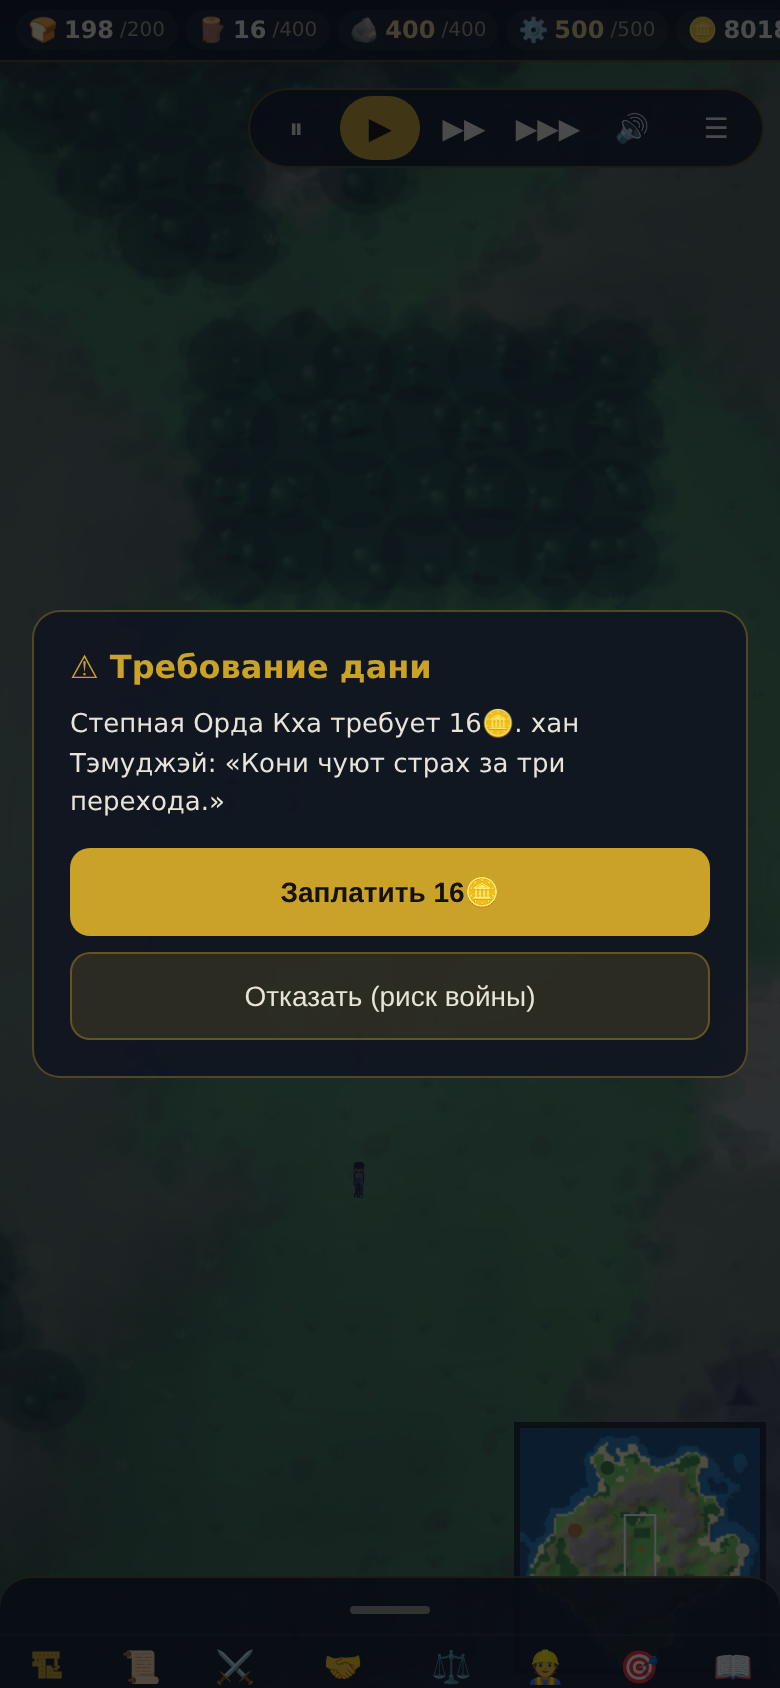
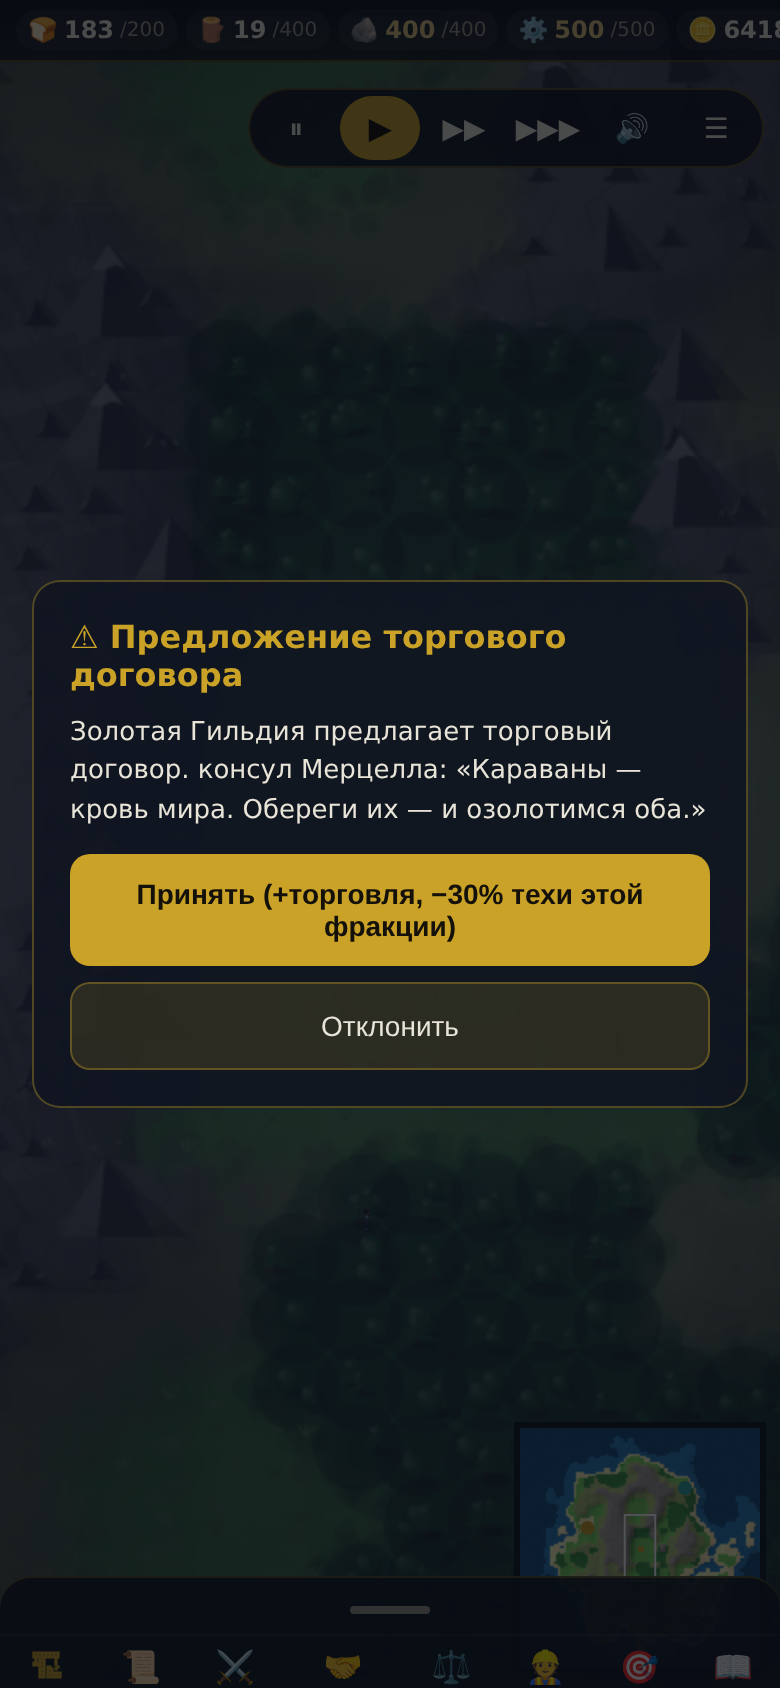
Масштаб зданий, рост жителей, пресет ultra, мини-карта
МАСШТАБ ЗДАНИЙ — настоящая причина «игрушечного города». Аудит списал это
на завышенный рост жителя, но замер показал другое: HFACT в sprites.js был
КОНСТАНТОЙ 1.55 — небоскрёб, храм и землянка рисовались одной высоты.
Человек рядом с четырёхэтажкой поэтому и выглядел великаном, а рядом
с хижиной пропорция была верной.

Введена таблица ARCH_H: высота в долях тайла для каждого архетипа, от
поля (0.30) и костра (0.45) до небоскрёба (3.20) и Шпиля (4.20). Числа
от реального роста при масштабе 1 тайл ≈ 8 м, с потолком: настоящий
небоскрёб в масштабе закрыл бы полэкрана.

Рост жителя 0.60 → 0.34 тайла. Строго по метру вышло бы 0.22, но тогда
на обычном зуме фигура — шесть пикселей и силуэт не читается; читаемость
юнита важнее метрической точности.

ULTRA больше не выдаётся автоматически: замер 26.3 FPS (33.6 мс на кадр),
а порог 8 ГБ / 8 ядер проходит почти любой десктоп — половина игроков
получала тормоги по умолчанию. Пресет остался для ручного выбора.

МИНИ-КАРТА стояла вплотную к краю окна и целиком уходила под боковую
панель: выпекалась каждый кадр и выбрасывалась. Сдвинута на ширину
панели, порог совпадает с媒 CSS-брейкпоинтом 820px.

395 проверок, 0 падений. Консоль чистая, 61 FPS.

Claude-Session: https://claude.ai/code/session_01A6YrcifM54qxcWsSEjEaM2

diff --git a/app/src/render/sprites.js b/app/src/render/sprites.js
@@ -29,6 +29,36 @@ const ARCH = {
   woodshed: 'woodpile', stoneyard: 'stonepile', depot: 'warehouse',
 };
 
+// Высота постройки в долях ширины тайла. Раньше здесь стояла одна константа
+// 1.55 на всё — и небоскрёб, и хижина выходили одного роста, отчего город
+// читался как набор одинаковых коробок, а житель рядом с четырёхэтажкой
+// выглядел великаном.
+//
+// Числа взяты от реального роста: масштаб карты 1 тайл ≈ 8 м (docs/art-direction.md §7),
+// значит землянка в 3 м — это 0.38 тайла, а башня в 90 м упирается в потолок,
+// который мы себе позволяем. Потолок нужен: настоящий небоскрёб в масштабе
+// закрыл бы полэкрана и спрятал под собой карту.
+const ARCH_H = {
+  // земля и ямы — почти без вертикали
+  field: 0.30, quarry: 0.42, mineshaft: 0.70, sewers: 0.34, pad: 0.40, solar: 0.34,
+  // очаги и навесы
+  campfire: 0.45, storyfire: 0.85, lean: 0.60, tent: 0.75, woodpile: 0.62, stonepile: 0.70,
+  // жильё и мастерские каменного и бронзового века
+  hut: 0.90, house: 1.15, shed: 0.95, stalls: 0.80, forge: 1.10, dock: 0.95,
+  // общественные постройки античности
+  columned: 1.70, amphi: 1.15, arches: 1.25, silo: 1.35, mill: 1.65, dome: 1.55,
+  // укрепления
+  wall: 1.00, barracks: 1.20, keep: 2.10, vault: 1.30,
+  // промышленность
+  factory: 1.70, warehouse: 1.10, shipyard: 1.25, lab: 1.40, reactor: 1.90, flat: 0.90,
+  airport: 1.30,
+  // современность и будущее — единственное, чему положено возвышаться
+  highrise: 3.20, tower: 3.60, aicore: 2.40, spire: 4.20,
+};
+const ARCH_H_DEFAULT = 1.15;
+
+export function archHeight(arch) { return ARCH_H[arch] ?? ARCH_H_DEFAULT; }
+
 export class SpriteCache {
   constructor(quality) {
     this.q = quality;
@@ -52,7 +82,9 @@ const BASE = [56, 96, 132];
 
 function bake(id, def, era, sizeTiles, detail) {
   const W = BASE[detail] * sizeTiles;
-  const HFACT = 1.55;                 // запас вверх под крыши, башни и трубы
+  // Высота своя у каждого архетипа (см. ARCH_H). Небольшой запас сверху нужен
+  // под конёк, трубу и мачту — иначе они срезаются рамкой холста.
+  const HFACT = archHeight(ARCH[id] || 'house') * 1.12;
   const H = Math.round(W * HFACT);
   const cv = document.createElement('canvas');
   cv.width = W; cv.height = H;

diff --git a/frontier.html b/frontier.html
@@ -5328,6 +5328,58 @@ ${s}`, "console");
     stoneyard: "stonepile",
     depot: "warehouse"
   };
+  var ARCH_H = {
+    // земля и ямы — почти без вертикали
+    field: 0.3,
+    quarry: 0.42,
+    mineshaft: 0.7,
+    sewers: 0.34,
+    pad: 0.4,
+    solar: 0.34,
+    // очаги и навесы
+    campfire: 0.45,
+    storyfire: 0.85,
+    lean: 0.6,
+    tent: 0.75,
+    woodpile: 0.62,
+    stonepile: 0.7,
+    // жильё и мастерские каменного и бронзового века
+    hut: 0.9,
+    house: 1.15,
+    shed: 0.95,
+    stalls: 0.8,
+    forge: 1.1,
+    dock: 0.95,
+    // общественные постройки античности
+    columned: 1.7,
+    amphi: 1.15,
+    arches: 1.25,
+    silo: 1.35,
+    mill: 1.65,
+    dome: 1.55,
+    // укрепления
+    wall: 1,
+    barracks: 1.2,
+    keep: 2.1,
+    vault: 1.3,
+    // промышленность
+    factory: 1.7,
+    warehouse: 1.1,
+    shipyard: 1.25,
+    lab: 1.4,
+    reactor: 1.9,
+    flat: 0.9,
+    airport: 1.3,
+    // современность и будущее — единственное, чему положено возвышаться
+    highrise: 3.2,
+    tower: 3.6,
+    aicore: 2.4,
+    spire: 4.2
+  };
+  var ARCH_H_DEFAULT = 1.15;
+  function archHeight(arch) {
+    return ARCH_H[arch] ?? ARCH_H_DEFAULT;
+  }
   var SpriteCache = class {
     constructor(quality) {
       this.q = quality;
@@ -5350,7 +5402,7 @@ ${s}`, "console");
   var BASE = [56, 96, 132];
   function bake(id, def, era, sizeTiles, detail) {
     const W = BASE[detail] * sizeTiles;
-    const HFACT = 1.55;
+    const HFACT = archHeight(ARCH[id] || "house") * 1.12;
     const H = Math.round(W * HFACT);
     const cv = document.createElement("canvas");
     cv.width = W;
@@ -7847,7 +7899,6 @@ ${s}`, "console");
     if (mem <= 2 || cores <= 2) return "eco";
     if (coarse && px > 25e5) return "medium";
     if (coarse) return "medium";
-    if (mem >= 8 && cores >= 8) return "ultra";
     return "high";
   }
 
@@ -8483,7 +8534,7 @@ ${s}`, "console");
         st.sheet = this.people.sheet(era, prof, lookOf(v));
       }
       const sh = st.sheet;
-      const h = Math.max(9, z * 0.6);
+      const h = Math.max(7, z * 0.34);
       const w = h * (sh.fw / sh.fh);
       const frame2 = st.still > 2 ? 0 : (st.walk / 0.62 * 4 | 0) % 4;
       ctx.drawImage(
@@ -8726,7 +8777,8 @@ ${s}`, "console");
     }
     drawMinimap(sim2, ctx, cw, ch) {
       const MW = 120, MH = 120;
-      const mx = cw - MW - 10, my = ch - MH - 10;
+      const panelW = cw > 820 ? 338 : 10;
+      const mx = cw - MW - panelW, my = ch - MH - 10;
       ctx.fillStyle = "rgba(10,14,24,0.75)";
       ctx.fillRect(mx - 3, my - 3, MW + 6, MH + 6);
       if (!this._miniCache || this._miniSeason !== sim2.seasonIdx || this._miniSeed !== sim2.world.seed) {

diff --git a/app/src/render/renderer.js b/app/src/render/renderer.js
@@ -689,8 +689,12 @@ export class Renderer {
       st.sheet = this.people.sheet(era, prof, lookOf(v));
     }
     const sh = st.sheet;
-    // Житель заметно ниже тайла: вровень с хижиной он смотрится великаном.
-    const h = Math.max(9, z * 0.60);
+    // Рост жителя в долях тайла. Масштаб карты — 1 тайл ≈ 8 м, человек 1.8 м,
+    // строго по метру это 0.22 тайла. Берём 0.34: на строгом значении фигура
+    // на обычном зуме выходит в шесть пикселей и силуэт перестаёт читаться,
+    // а читаемость юнита важнее метрической точности. Хижина при этом 0.90,
+    // то есть человек ей примерно по плечо — пропорция уже честная.
+    const h = Math.max(7, z * 0.34);
     const w = h * (sh.fw / sh.fh);
     // цикл шага — 0.62 тайла на два шага
     const frame = st.still > 2 ? 0 : ((st.walk / 0.62 * 4) | 0) % 4;
@@ -912,7 +916,12 @@ export class Renderer {
 
   drawMinimap(sim, ctx, cw, ch) {
     const MW = 120, MH = 120;
-    const mx = cw - MW - 10, my = ch - MH - 10;
+    // Правый край занимает #sidePanel (шириной 330 плюс отступ). Мини-карта
+    // стояла вплотную к краю окна и на десктопе целиком уходила под панель:
+    // рендер выпекал её каждый кадр и выбрасывал. Отступаем на ширину панели,
+    // но только когда та реально показана — на узком экране она скрыта.
+    const panelW = cw > 820 ? 338 : 10;   // 320 ширина панели + 8 отступ справа + 10 зазор
+    const mx = cw - MW - panelW, my = ch - MH - 10;
     ctx.fillStyle = 'rgba(10,14,24,0.75)';
     ctx.fillRect(mx - 3, my - 3, MW + 6, MH + 6);
     if (!this._miniCache || this._miniSeason !== sim.seasonIdx || this._miniSeed !== sim.world.seed) {

diff --git a/app/src/render/quality.js b/app/src/render/quality.js
@@ -93,6 +93,9 @@ export function guessQuality() {
   if (mem <= 2 || cores <= 2) return 'eco';
   if (coarse && px > 2.5e6) return 'medium';   // телефон с плотным экраном
   if (coarse) return 'medium';
-  if (mem >= 8 && cores >= 8) return 'ultra';
+  // ultra намеренно НЕ выдаётся автоматически: замер показал 26.3 FPS
+  // (33.6 мс на кадр) при 55 зданиях и 226 жителях, а порог 8 ГБ / 8 ядер
+  // проходит почти любой современный десктоп — половина игроков получала
+  // тормоза по умолчанию. Пресет остаётся, но выбирается только руками.
   return 'high';
 }
